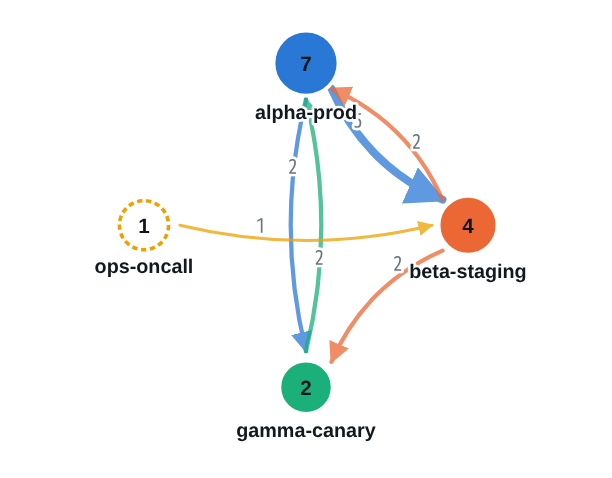
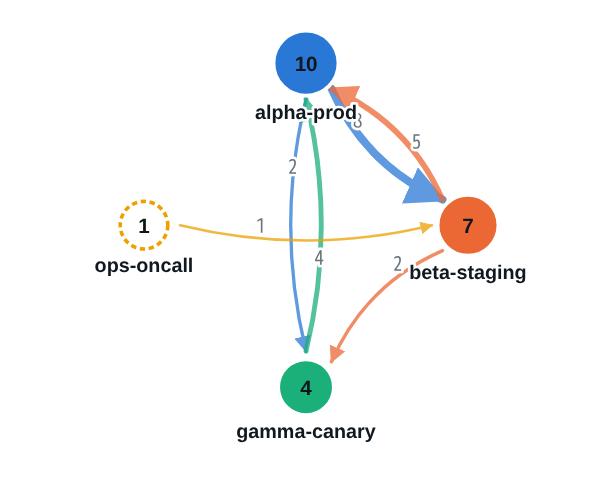
Give the demo enough conversation to be worth looking at
The fixture existed to exercise the parser, so it was as small as the test cases
allowed: fourteen messages, three conversations, three surfaced decisions. Every
feature was represented and the whole thing still read as a sample rather than a
working day, which is the wrong first impression for the one dataset most people
will ever see.

Two more sittings carry the argument through to a production run — a per-table
disagreement that gets resolved, a root cause found in the wrong place, and an
estimate withdrawn once it was measured. Twenty-two messages across five
conversations with eight stated conclusions, and all three kinds of conclusion
now appear.

Nothing about the test cases changed: the phantom, the rename, both delivery
modes, the unpaired pair and the planted credential are all still asserted, and
the verifier passes unchanged.

diff --git a/tools/make-fixture.py b/tools/make-fixture.py
@@ -64,7 +64,8 @@ BASE_H, BASE_M = 9, 0
 #   sitting 1  the assignment and the correction        09:00
 #   sitting 2  staging results and the canary           10:20
 #   sitting 3  production sign-off and the loose ends   11:55
-SITTINGS = ((0, 0), (100, 80 * 60), (250, 175 * 60))
+SITTINGS = ((0, 0), (100, 80 * 60), (250, 175 * 60),
+            (500, 320 * 60), (700, 460 * 60))
 
 
 def _stretch(sec):
@@ -273,6 +274,38 @@ B8 = ("Root cause was the index rebuild, not the batched writes. Canary held at 
       "rollout to 25%.")
 
 
+X1 = ("Index rebuild finished on the replica in 9 minutes flat. I am going to "
+      "hold the 500 batch size for the second table as well rather than retune "
+      "per table — the lock profile is the same and a second guessed number is "
+      "a second thing to be wrong about.")
+
+X2 = ("Agreed, and adopting that as the default for the whole migration. One "
+      "caveat from the canary: orders_archive has no foreign key, so the lock "
+      "argument does not apply there and 5000 is genuinely safe. Worth an "
+      "exception rather than a blanket rule.")
+
+X3 = ("You were right to push on the per-table question. Runbook now says 500 "
+      "everywhere except orders_archive, with the reason written next to it so "
+      "nobody re-derives it at 2am.")
+
+X4 = ("Production window opened. First batch is through: 500 rows, lock hold "
+      "0.8s, p99 checkout unchanged. Continuing.")
+
+X5 = ("Halfway. 2.1M of 4.1M rows, replication lag peaked at 6s against the 30s "
+      "abort threshold. No retries.")
+
+X6 = ("Root cause of the earlier 40ms spike was the archive table sharing a "
+      "connection pool with checkout, not the batch size at all. Repointed it at "
+      "the reporting pool and the spike is gone.")
+
+X7 = ("Migration complete. 4,118,204 rows, 47 minutes, zero retries, zero "
+      "rollbacks. I withdraw my earlier estimate of 40 minutes — the index "
+      "rebuild is the floor and I had it as an afterthought.")
+
+X8 = ("Confirmed on my side: canary is clean at 100% for twenty minutes. "
+      "Closing this out.")
+
+
 def build():
     os.makedirs(OUT, exist_ok=True)
 
@@ -368,8 +401,28 @@ def build():
                  "tag inside a text block. This is how a pre-origin transcript "
                  "looked and the fallback path still has to read it.")
 
+    # -- a fourth sitting: the per-table argument and its resolution
+    alpha.send(ts(500), "beta-staging", "Holding 500 for the second table", X1)
+    beta.recv_boundary(ts(501), ts(501, 11), ALPHA, "alpha-prod", X1, STALL)
+    beta.send(ts(520), "alpha-prod", "Agreed, with one exception", X2)
+    alpha.recv_boundary(ts(521), ts(521, 12), BETA, "beta-staging", X2, STALL)
+    alpha.send(ts(545), "beta-staging", "Runbook updated with the exception", X3)
+    beta.recv_boundary(ts(546), ts(546, 10), ALPHA, "alpha-prod", X3, STALL)
+    gamma.send(ts(560), "alpha-prod", "Archive table needs its own pool", X6)
+    alpha.recv_midturn(ts(561), ts(575, 300), GAMMA, "gamma-canary", X6, STALL)
+
+    # -- a fifth sitting: the production run itself
+    alpha.send(ts(700), "beta-staging", "Production window open", X4)
+    beta.recv_boundary(ts(701), ts(701, 13), ALPHA, "alpha-prod", X4, STALL)
+    beta.send(ts(730), "alpha-prod", "Halfway, lag well inside threshold", X5)
+    alpha.recv_boundary(ts(731), ts(731, 11), BETA, "beta-staging", X5, STALL)
+    beta.send(ts(770), "alpha-prod", "Migration complete: 4.1M rows, 47 minutes", X7)
+    alpha.recv_boundary(ts(771), ts(771, 12), BETA, "beta-staging", X7, STALL)
+    gamma.send(ts(790), "alpha-prod", "Canary clean at 100%", X8)
+    alpha.recv_boundary(ts(791), ts(791, 10), GAMMA, "gamma-canary", X8, STALL)
+
     for t in (alpha, beta, gamma):
-        t.noise(ts(400), "Continuing.")
+        t.noise(ts(820), "Continuing.")
 
     alpha.write(os.path.join(OUT, "alpha.jsonl"))
     beta.write(os.path.join(OUT, "beta.jsonl"))
